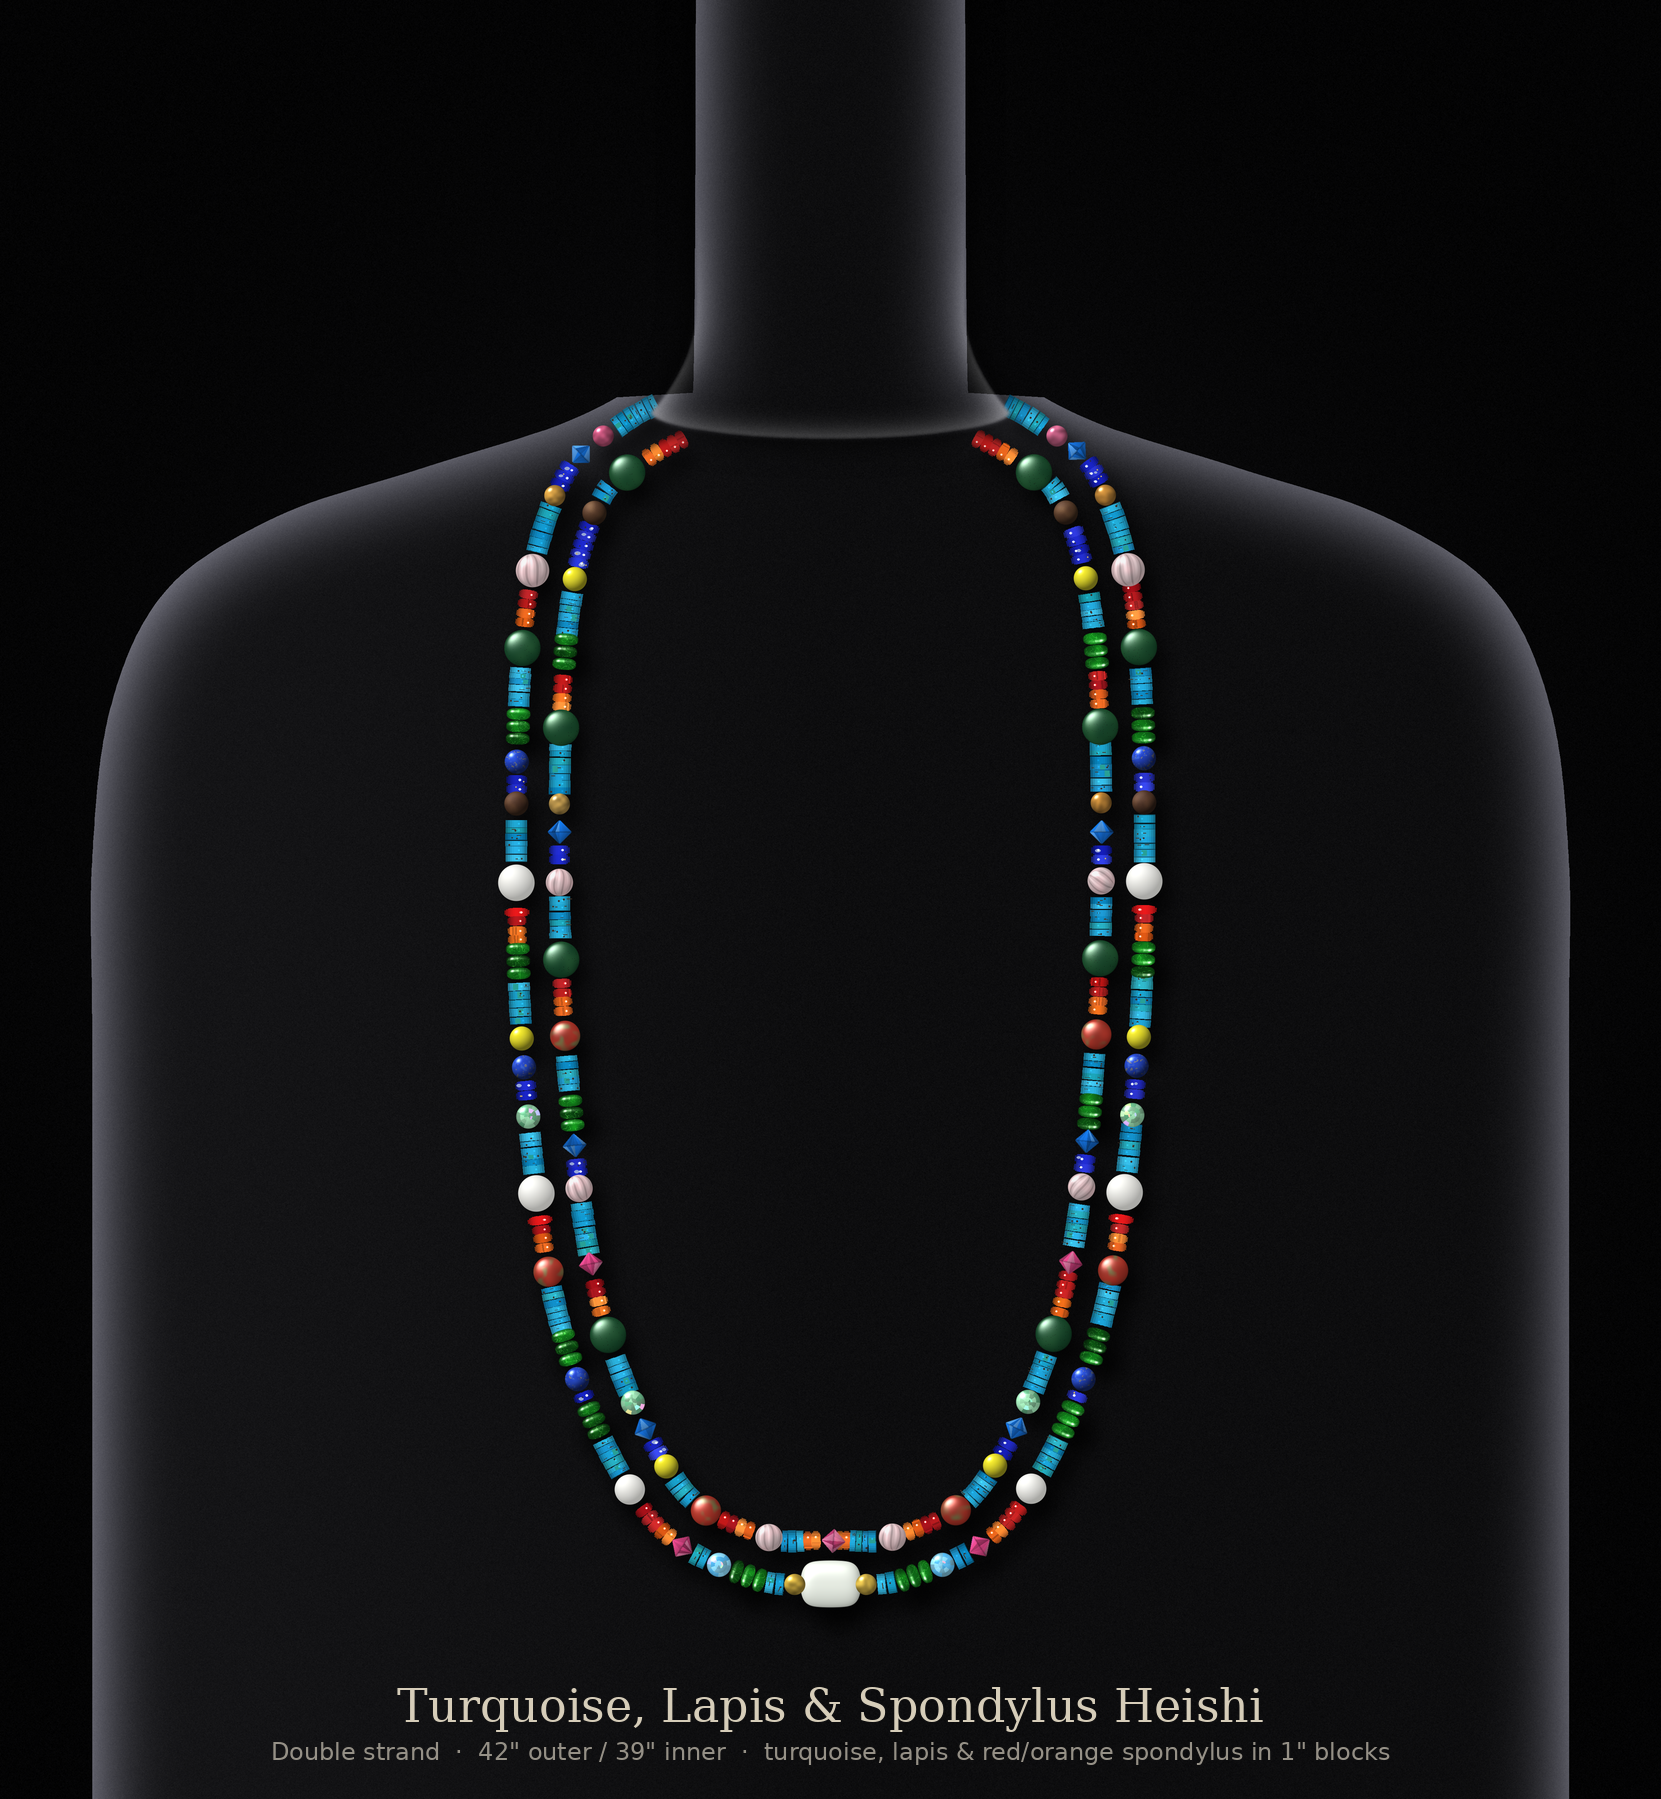
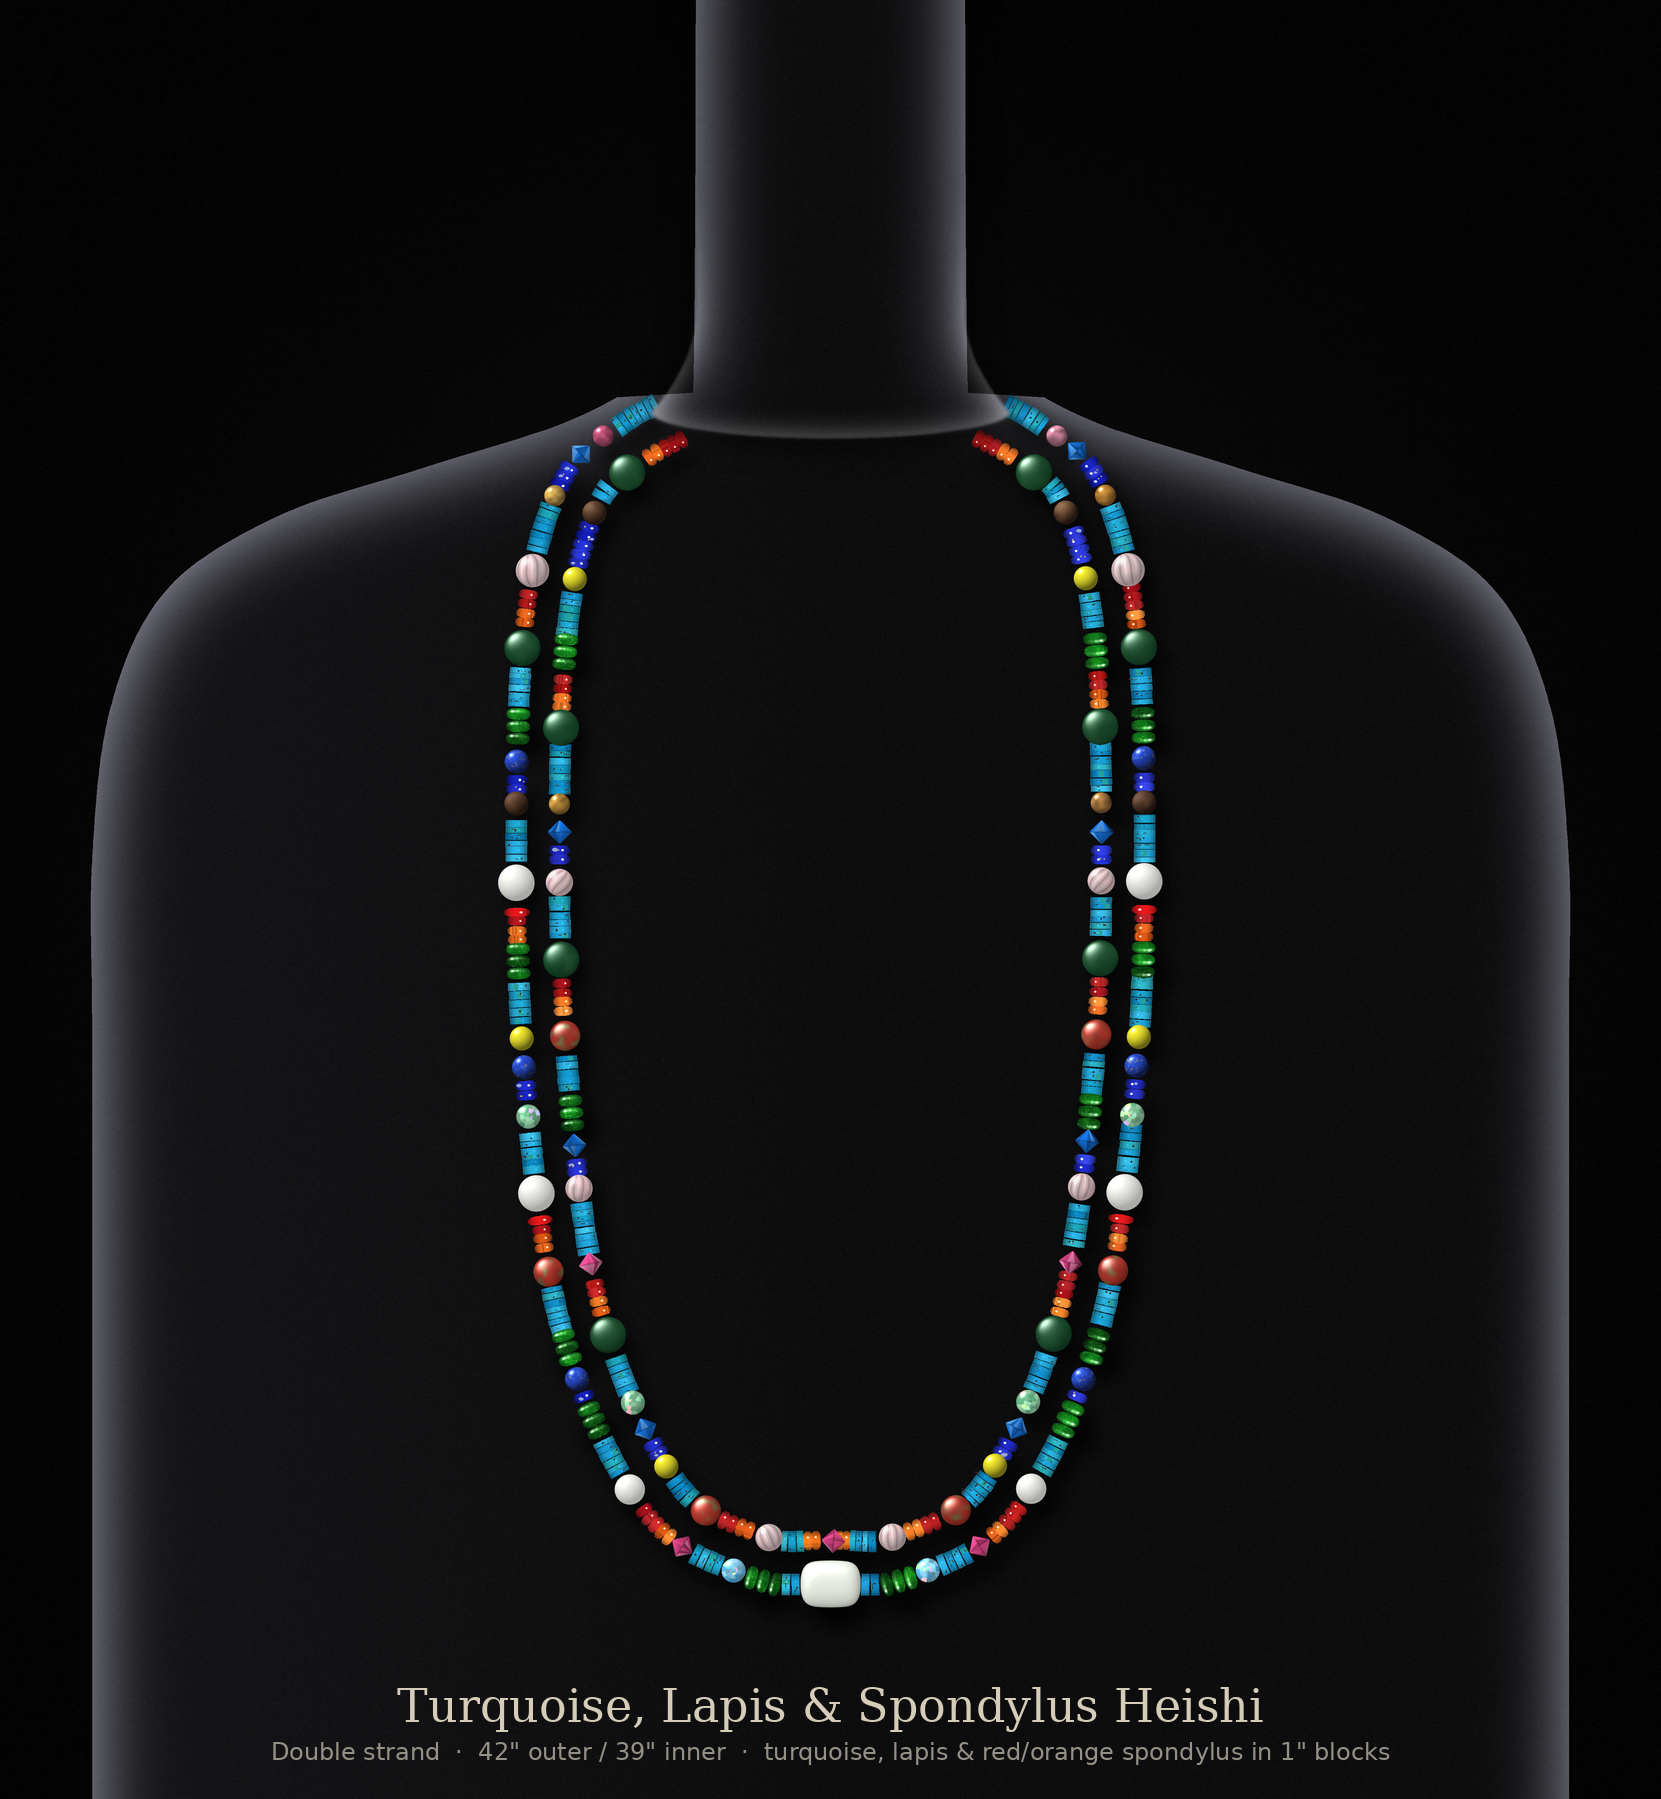
Version 2: remove tourmaline beside the bottom barrel
Claude-Session: https://claude.ai/code/session_014be1vF4Rdf8sv9Si75Gudv

diff --git a/necklace/render_necklace.py b/necklace/render_necklace.py
@@ -560,8 +560,10 @@ if V2:
             # 7 mm yellow tourmaline nestles 1/4 of its width into each concave end of the barrel
             _t0 = _h + TOUR_D / 2 - TOUR_D / 4
             _e = _t0 + TOUR_D / 2                     # outer edge of the tourmaline
-            _gap = 3.1 if V3 else 6.2                 # v3: one orange disc; v2: turquoise + lapis
-            _layout = [(_t0, "tour_ybright"), (_e + 1.55, "spondy_or" if V3 else "orange")] + \
+            _gap = 3.1 if V3 else 6.2                 # v3: one orange disc; v2: two turquoise
+            if not V3:
+                _e = _h                               # v2: no tourmaline, turquoise touches the barrel
+            _layout = ([(_t0, "tour_ybright")] if V3 else []) + [(_e + 1.55, "spondy_or" if V3 else "orange")] + \
                       ([] if V3 else [(_e + 4.65, "lapis")]) + \
                       [(_e + _gap + 6.05, "peridot3"), (_e + _gap + 12.1 + 4.05, "conch8")]
             _reach = _e + _gap + 12.1 + 8.1 + 0.9
